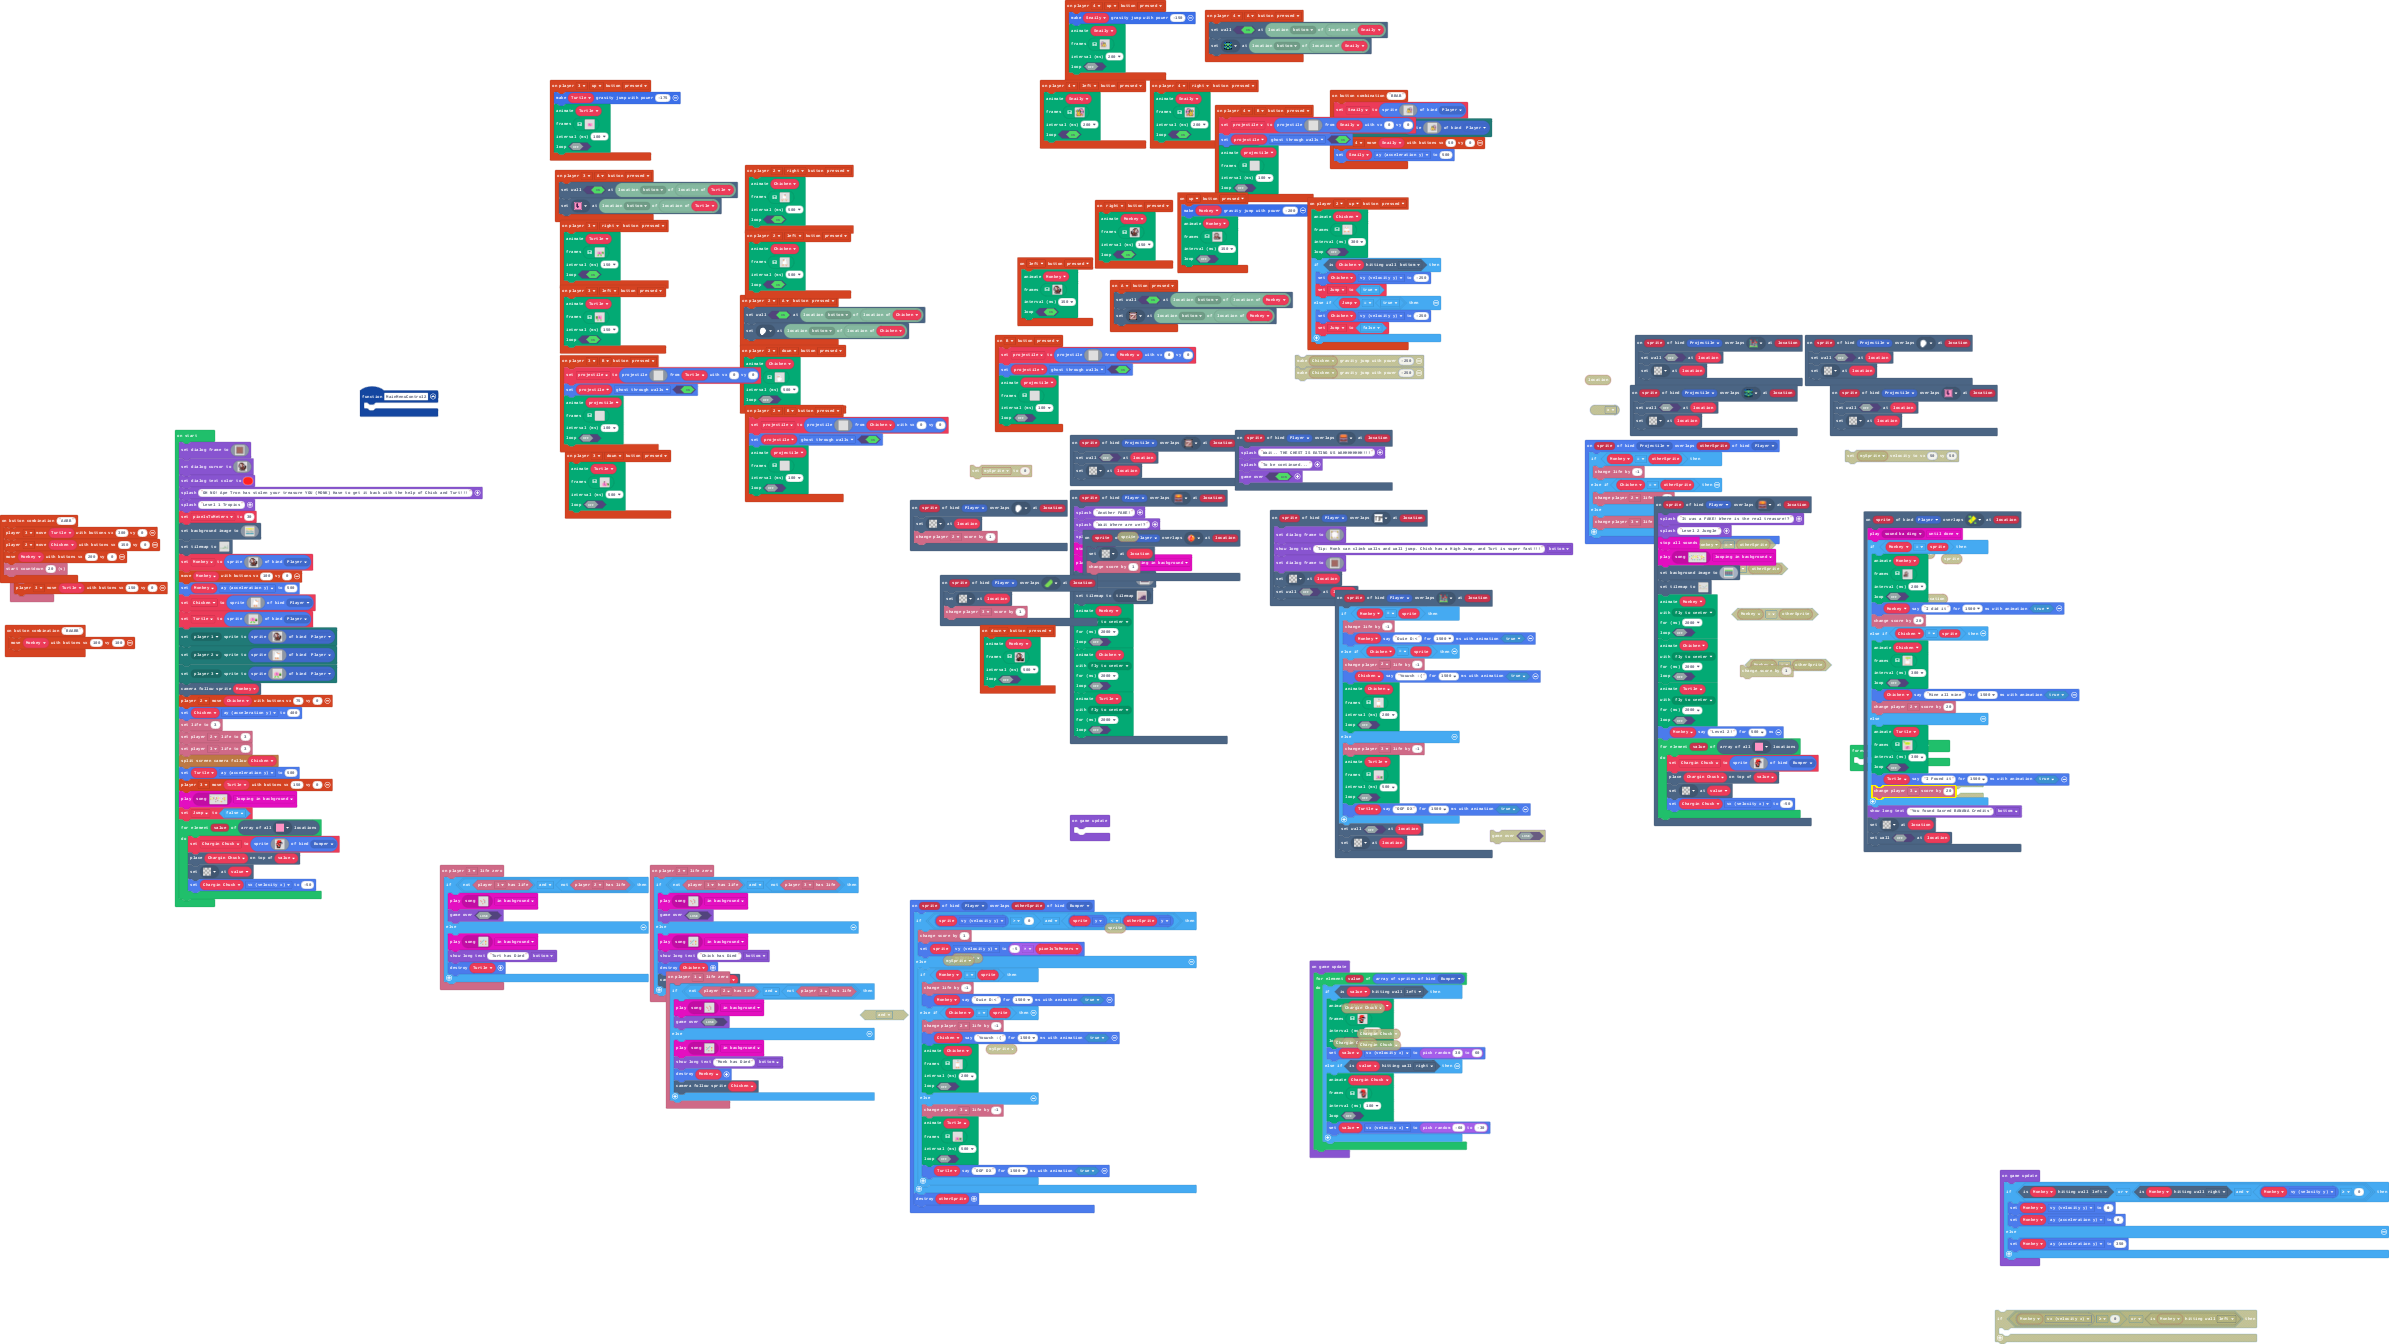
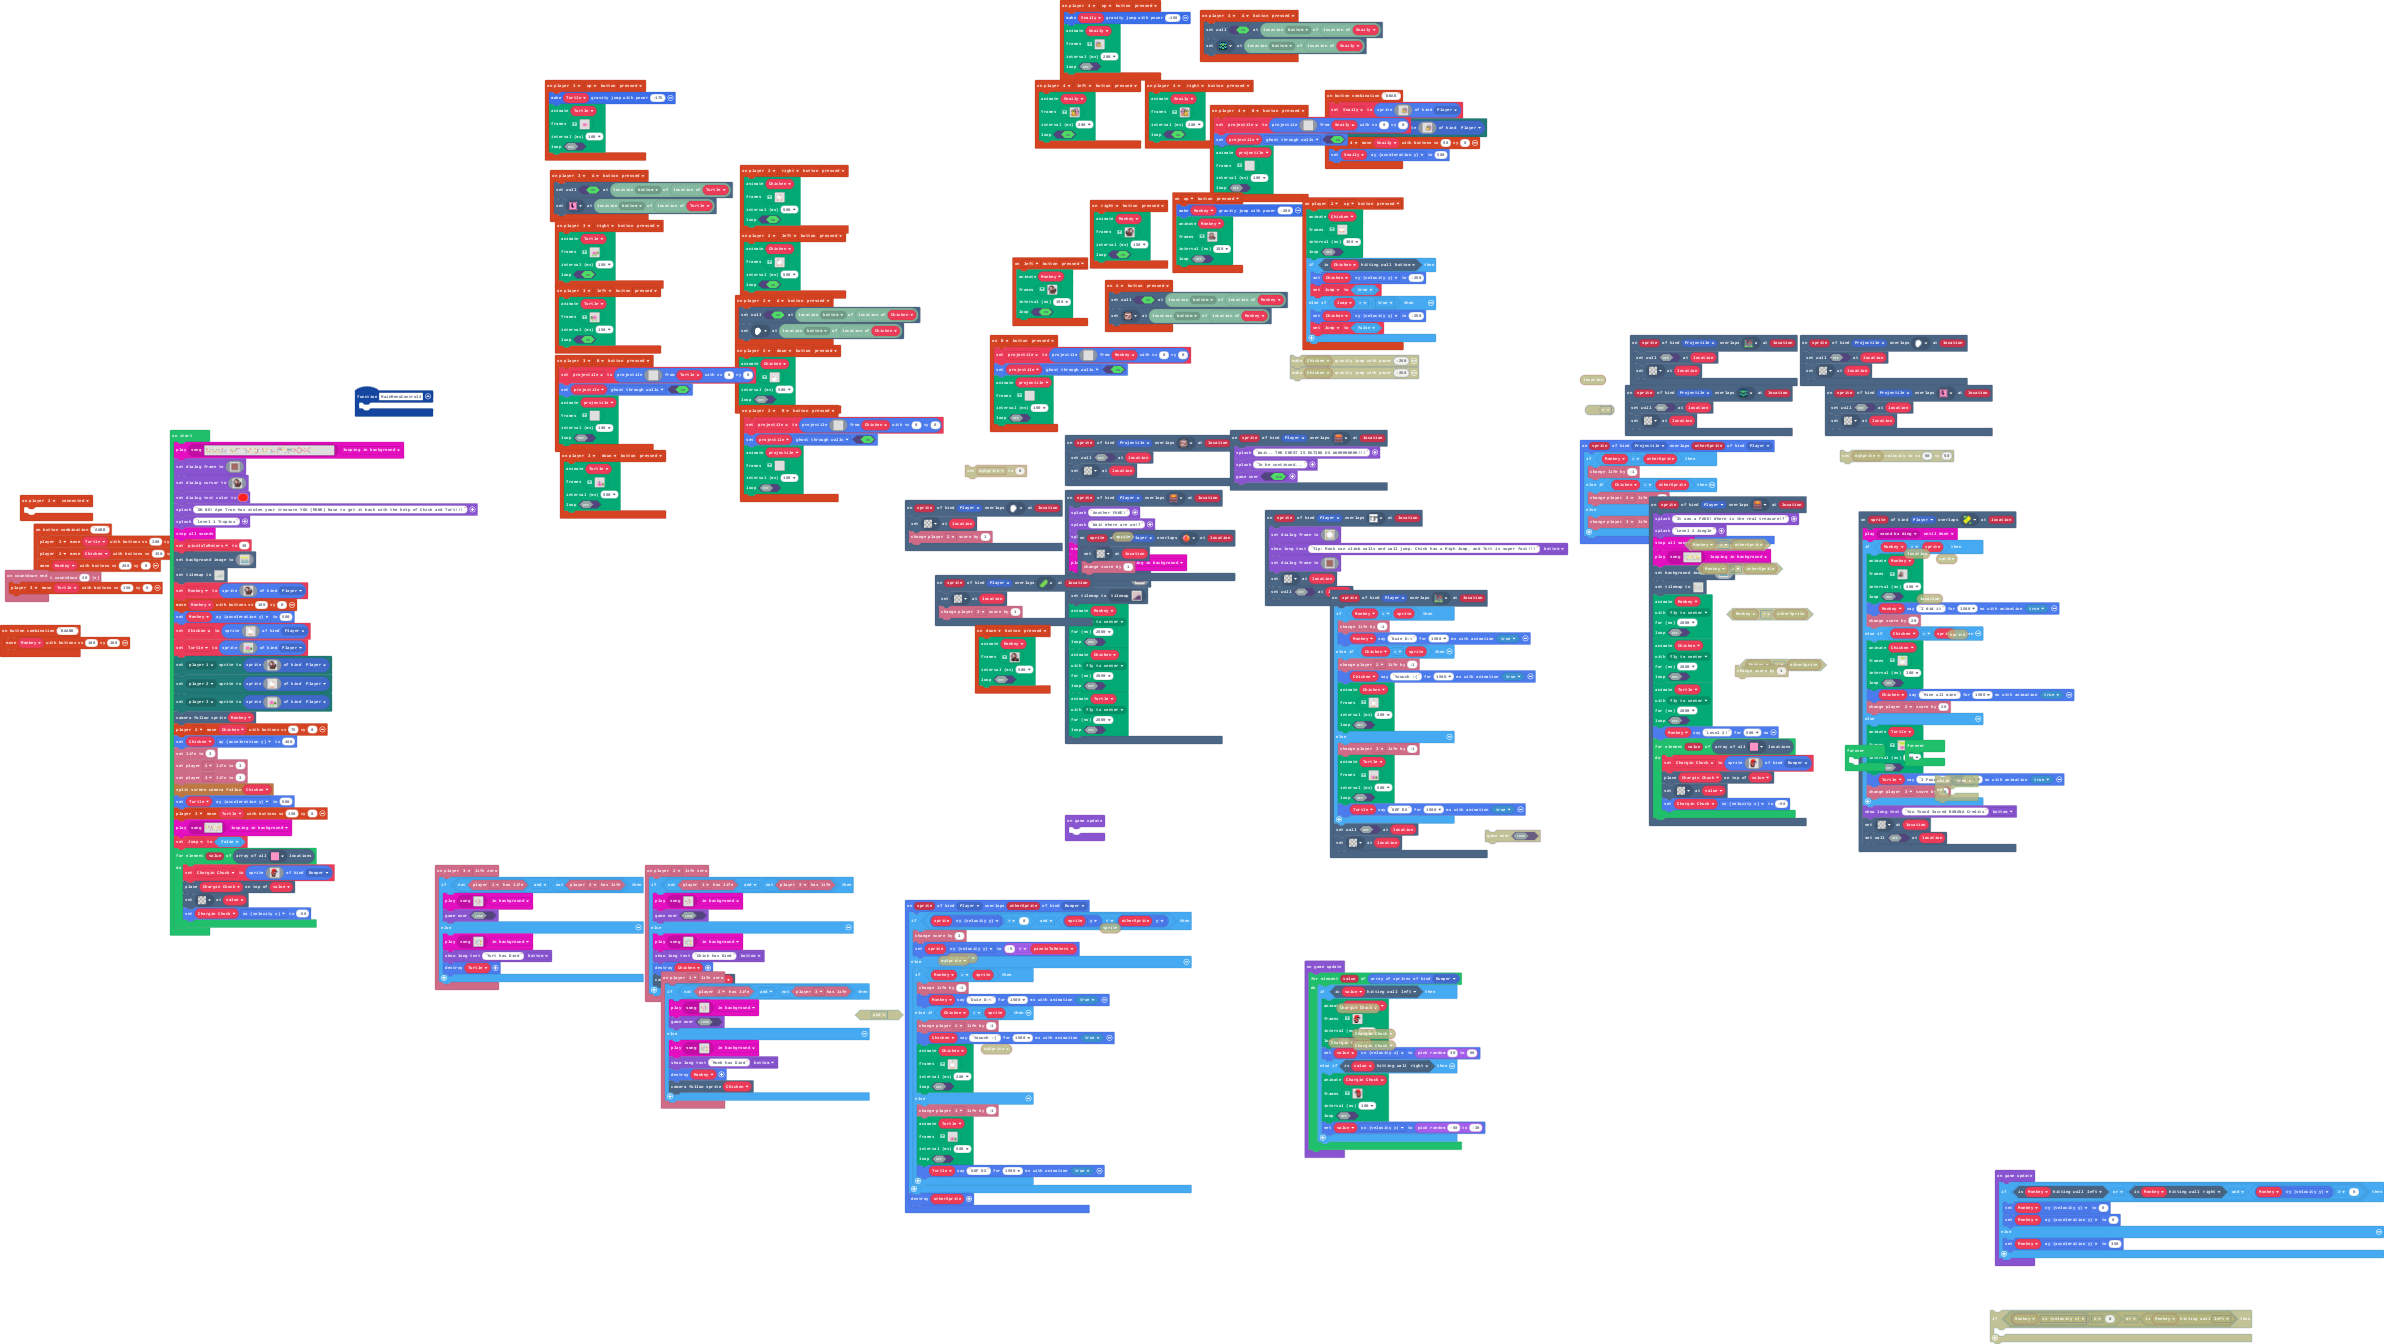
Theme music

diff --git a/images.g.ts b/images.g.ts
@@ -1059,6 +1059,8 @@ fffffffffffffff.
         switch(helpers.stringTrim(name)) {
             case "song1":
[1 lines of base64/hex data omitted]
+            case "song2":
[1 lines of base64/hex data omitted]
         }
         return null;
     })

diff --git a/main.ts b/main.ts
@@ -1413,6 +1413,9 @@ info.player2.onLifeZero(function () {
         scene.cameraFollowSprite(Turtle)
     }
 })
+controller.player2.onEvent(ControllerEvent.Connected, function () {
+	
+})
 scene.onOverlapTile(SpriteKind.Player, assets.tile`poison pit`, function (sprite, location) {
     if (Monkey == sprite) {
         info.changeLifeBy(-1)
@@ -1822,6 +1825,7 @@ let Turtle: Sprite = null
 let Chicken: Sprite = null
 let Monkey: Sprite = null
 let pixelsToMeters = 0
+music.play(music.createSong(assets.song`Theme song`), music.PlaybackMode.LoopingInBackground)
 game.setDialogFrame(img`
     ..................................................................
     ............fff........fff.............fff..............ffff......
@@ -1894,6 +1898,7 @@ game.setDialogCursor(assets.image`stand`)
 game.setDialogTextColor(2)
 game.splash("OH NO! Ape Tron has stolen your treasure YOU (MONK) Have to get it back with the help of Chick and Turt!!!")
 game.splash("Level 1 Tropics")
+music.stopAllSounds()
 pixelsToMeters = 30
 scene.setBackgroundImage(assets.image`background`)
 tiles.setTilemap(tilemap`level1`)
